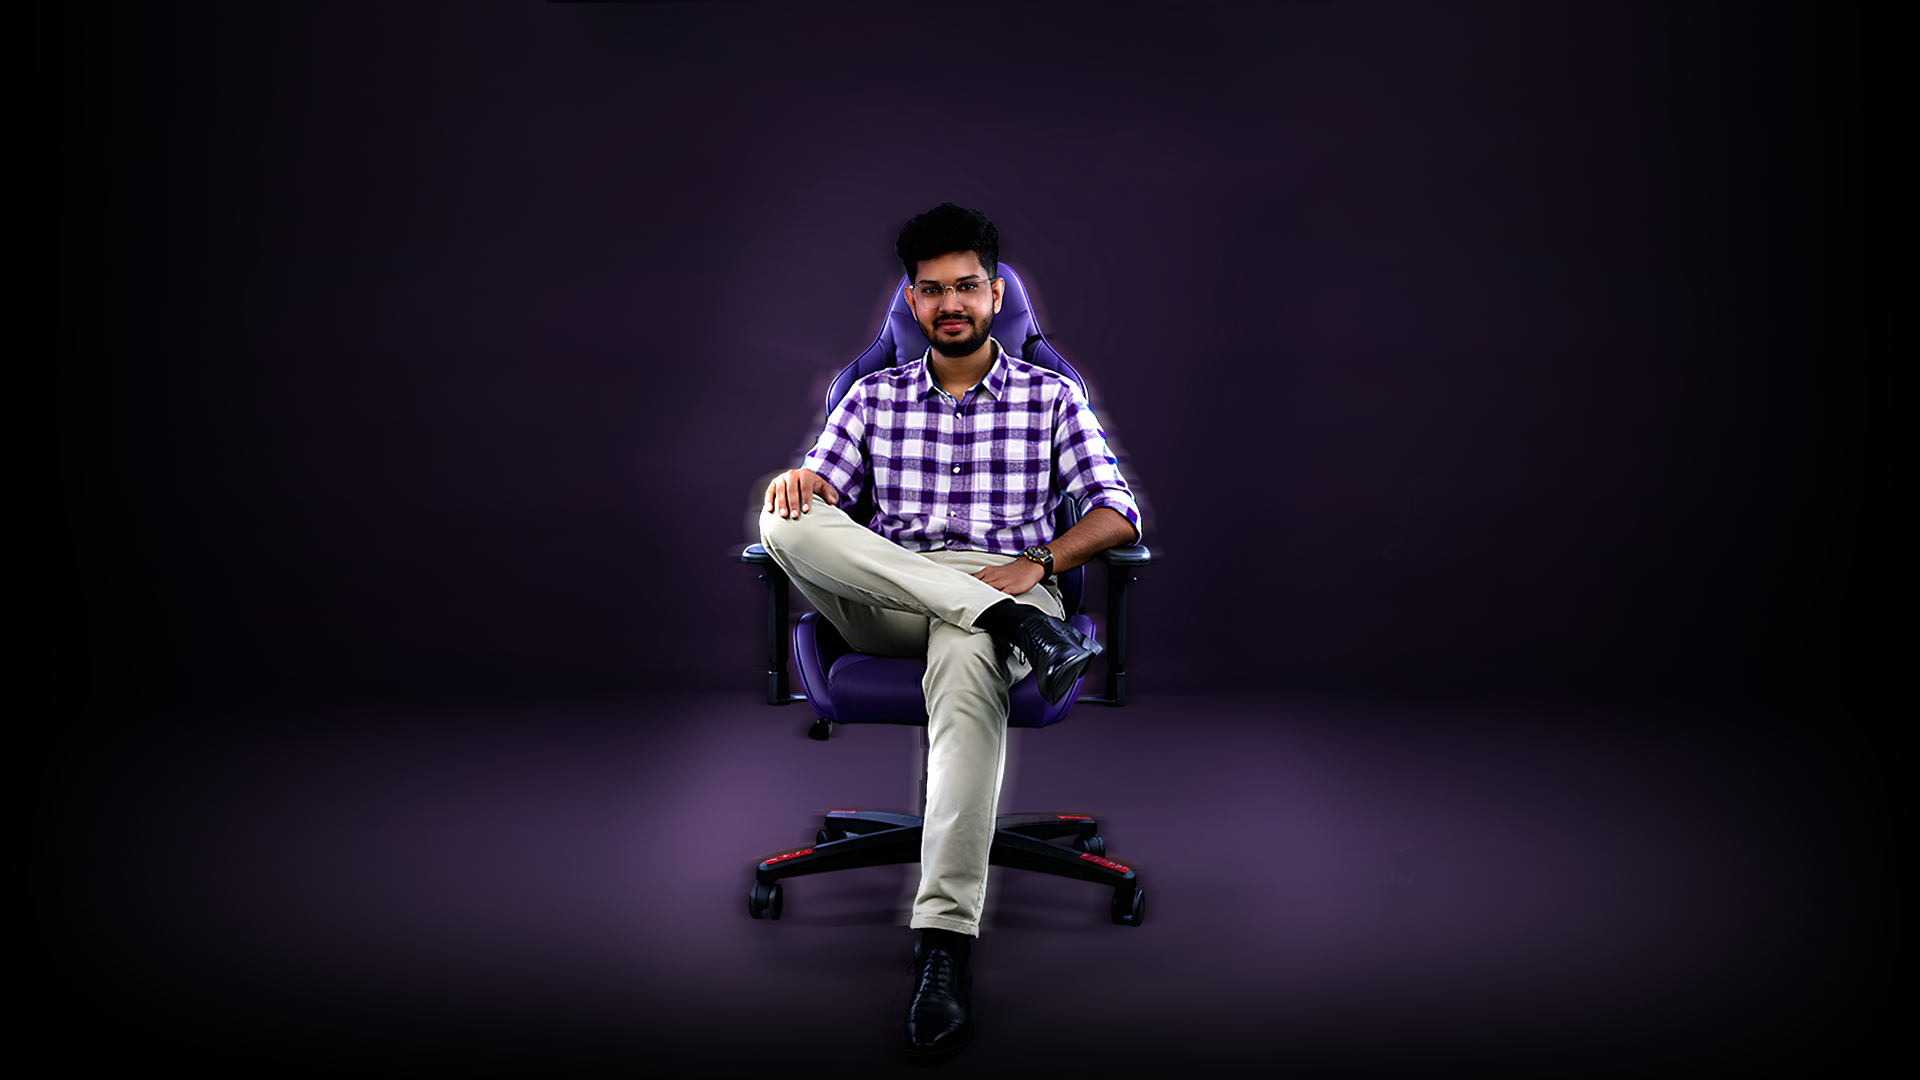
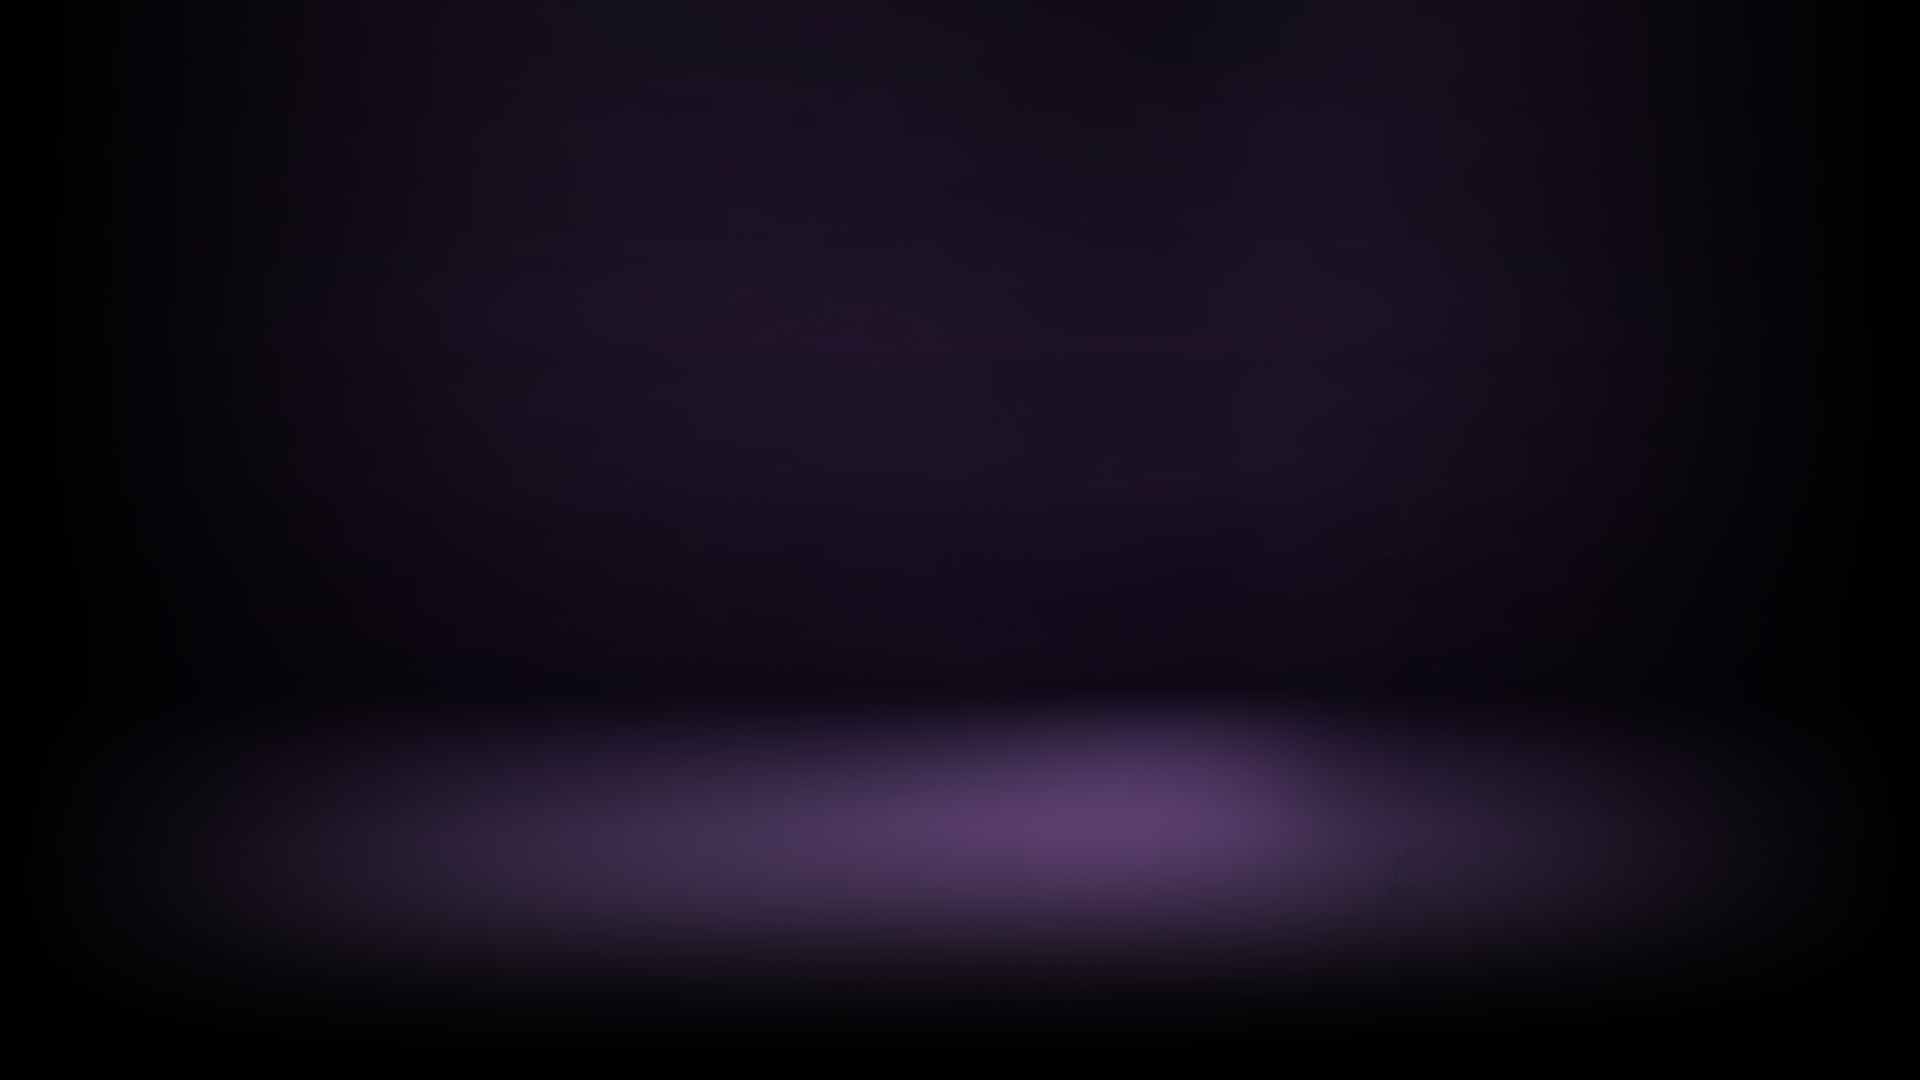
fix

Changed region(s): [[0.3438, 0.1833, 0.625, 0.9472], [0.5625, 0.825, 0.8125, 0.9472]]

diff --git a/style.css b/style.css
@@ -119,7 +119,7 @@ section#home {
     width: 100%;
     height: 100vh;
     background-image: url('fffff.png'); 
-    background-position: -55% top; 
+    background-position: -30% top; 
     background-repeat: no-repeat;
     background-size: cover;
     overflow: hidden;
@@ -1145,11 +1145,25 @@ section#home::after {
     }
 
     /* Spline & Desktop Profile Photo Hide */
-    spline-viewer, .profile-photo {
-        display: none !important;
-    }
-
+   /* Spline & Desktop Profile Photo Hide */
+spline-viewer {
+    display: none !important;
+}
     /* --- 2. HOME SECTION --- */
+    /* === PNG Photo (ඔයාගේ රූපය) - Mobile Display Fix === */
+.profile-photo {
+    display: block !important; 
+    z-index: 5; 
+    position: absolute;
+    left: 50%; /* තිරය මැදට ගෙන ඒමට */
+    top: 63%; /* අවශ්ය උසකට ගෙන ඒමට */
+    transform: translate(-50%, -50%); /* නිවැරදි මැදට ගෙන ඒමට */
+    height: 80vh; /* උස අවශ්ය පරිදි වෙනස් කරන්න */
+    max-height: 500px;
+    width: auto;
+    object-fit: contain;
+    z-index: -1;
+}
     main {
         flex-direction: column;
         justify-content: space-between;
